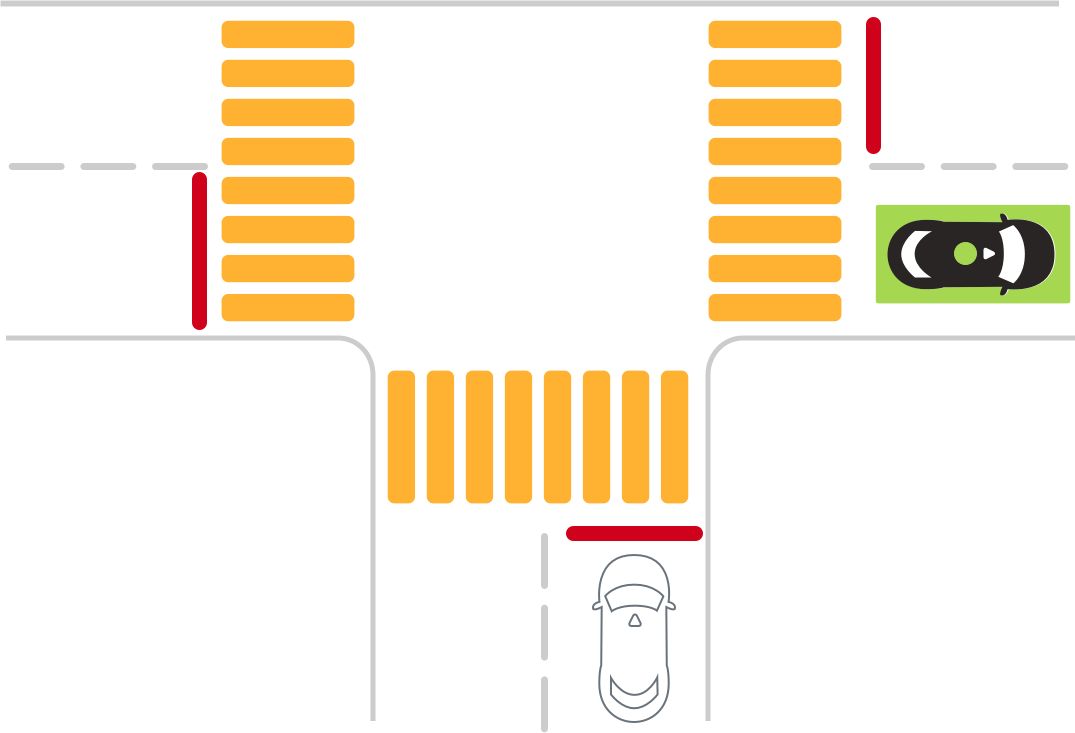
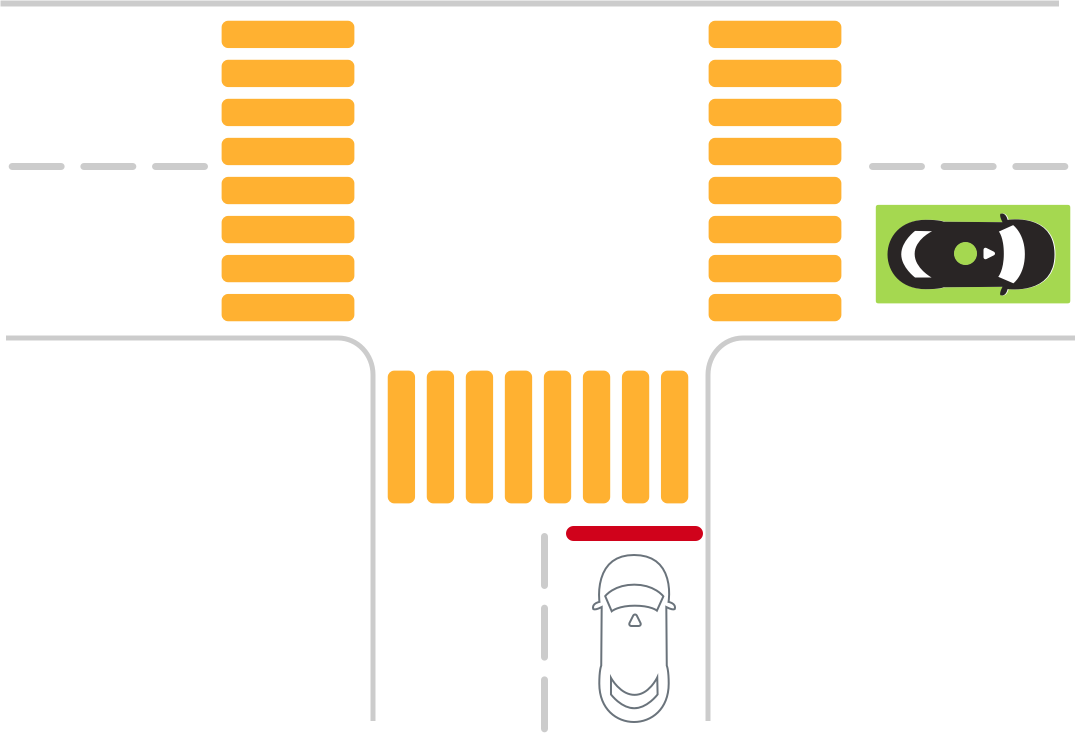
Intersection scenarios

Changed region(s): [[0.1535, 0.2401, 0.2149, 0.4502], [0.7981, 0.03, 0.8288, 0.2101]]

diff --git a/docs/scenarios/intersections.md b/docs/scenarios/intersections.md
@@ -169,3 +169,23 @@ The following are examples on how these various configurations can be put togeth
 | :--: | --- | --- |
 | A    | ![I-04-A](./images/I-04-A.png) | **Scenario** <br> Ego approaches intersection and it is clear. Secondary vehicle approaches from South and stops at intersection. <br><br> **Expected Result** <br> Ego proceeds through the intersection. |
 | B    | ![I-04-B](./images/I-04-B.png) | **Scenario Complete 🎉** |
+
+**Ego Starting Location:** `west`
+
+**Direction:** `straight`
+
+**Roadway:** `3-way`
+
+**Stopping Pattern:** `1-way (south)`
+
+**Secondary Vehicle:** `car`
+
+**Secondary Vehicle Position:** `south` to `west`
+
+**Right of Way:** `Ego has right of way but secondary vehicle is in intersection`
+
+|      |     |     |
+| :--: | --- | --- |
+| A    | ![I-08-A](./images/I-08-A.png) | **Scenario** <br> Ego approaches intersection and secondary vehicle is occupying intersection. <br><br> **Expected Result** <br> Ego stops for secondary vehicle and waits until intersection is clear. |
+| B    | ![I-08-B](./images/I-08-B.png) | **Scenario** <br> Secondary vehicle clears intersection. <br><br> **Expected Result** <br> Ego proceeds through intersection. |
+| B    | ![I-08-C](./images/I-08-C.png) | **Scenario Complete 🎉** |
